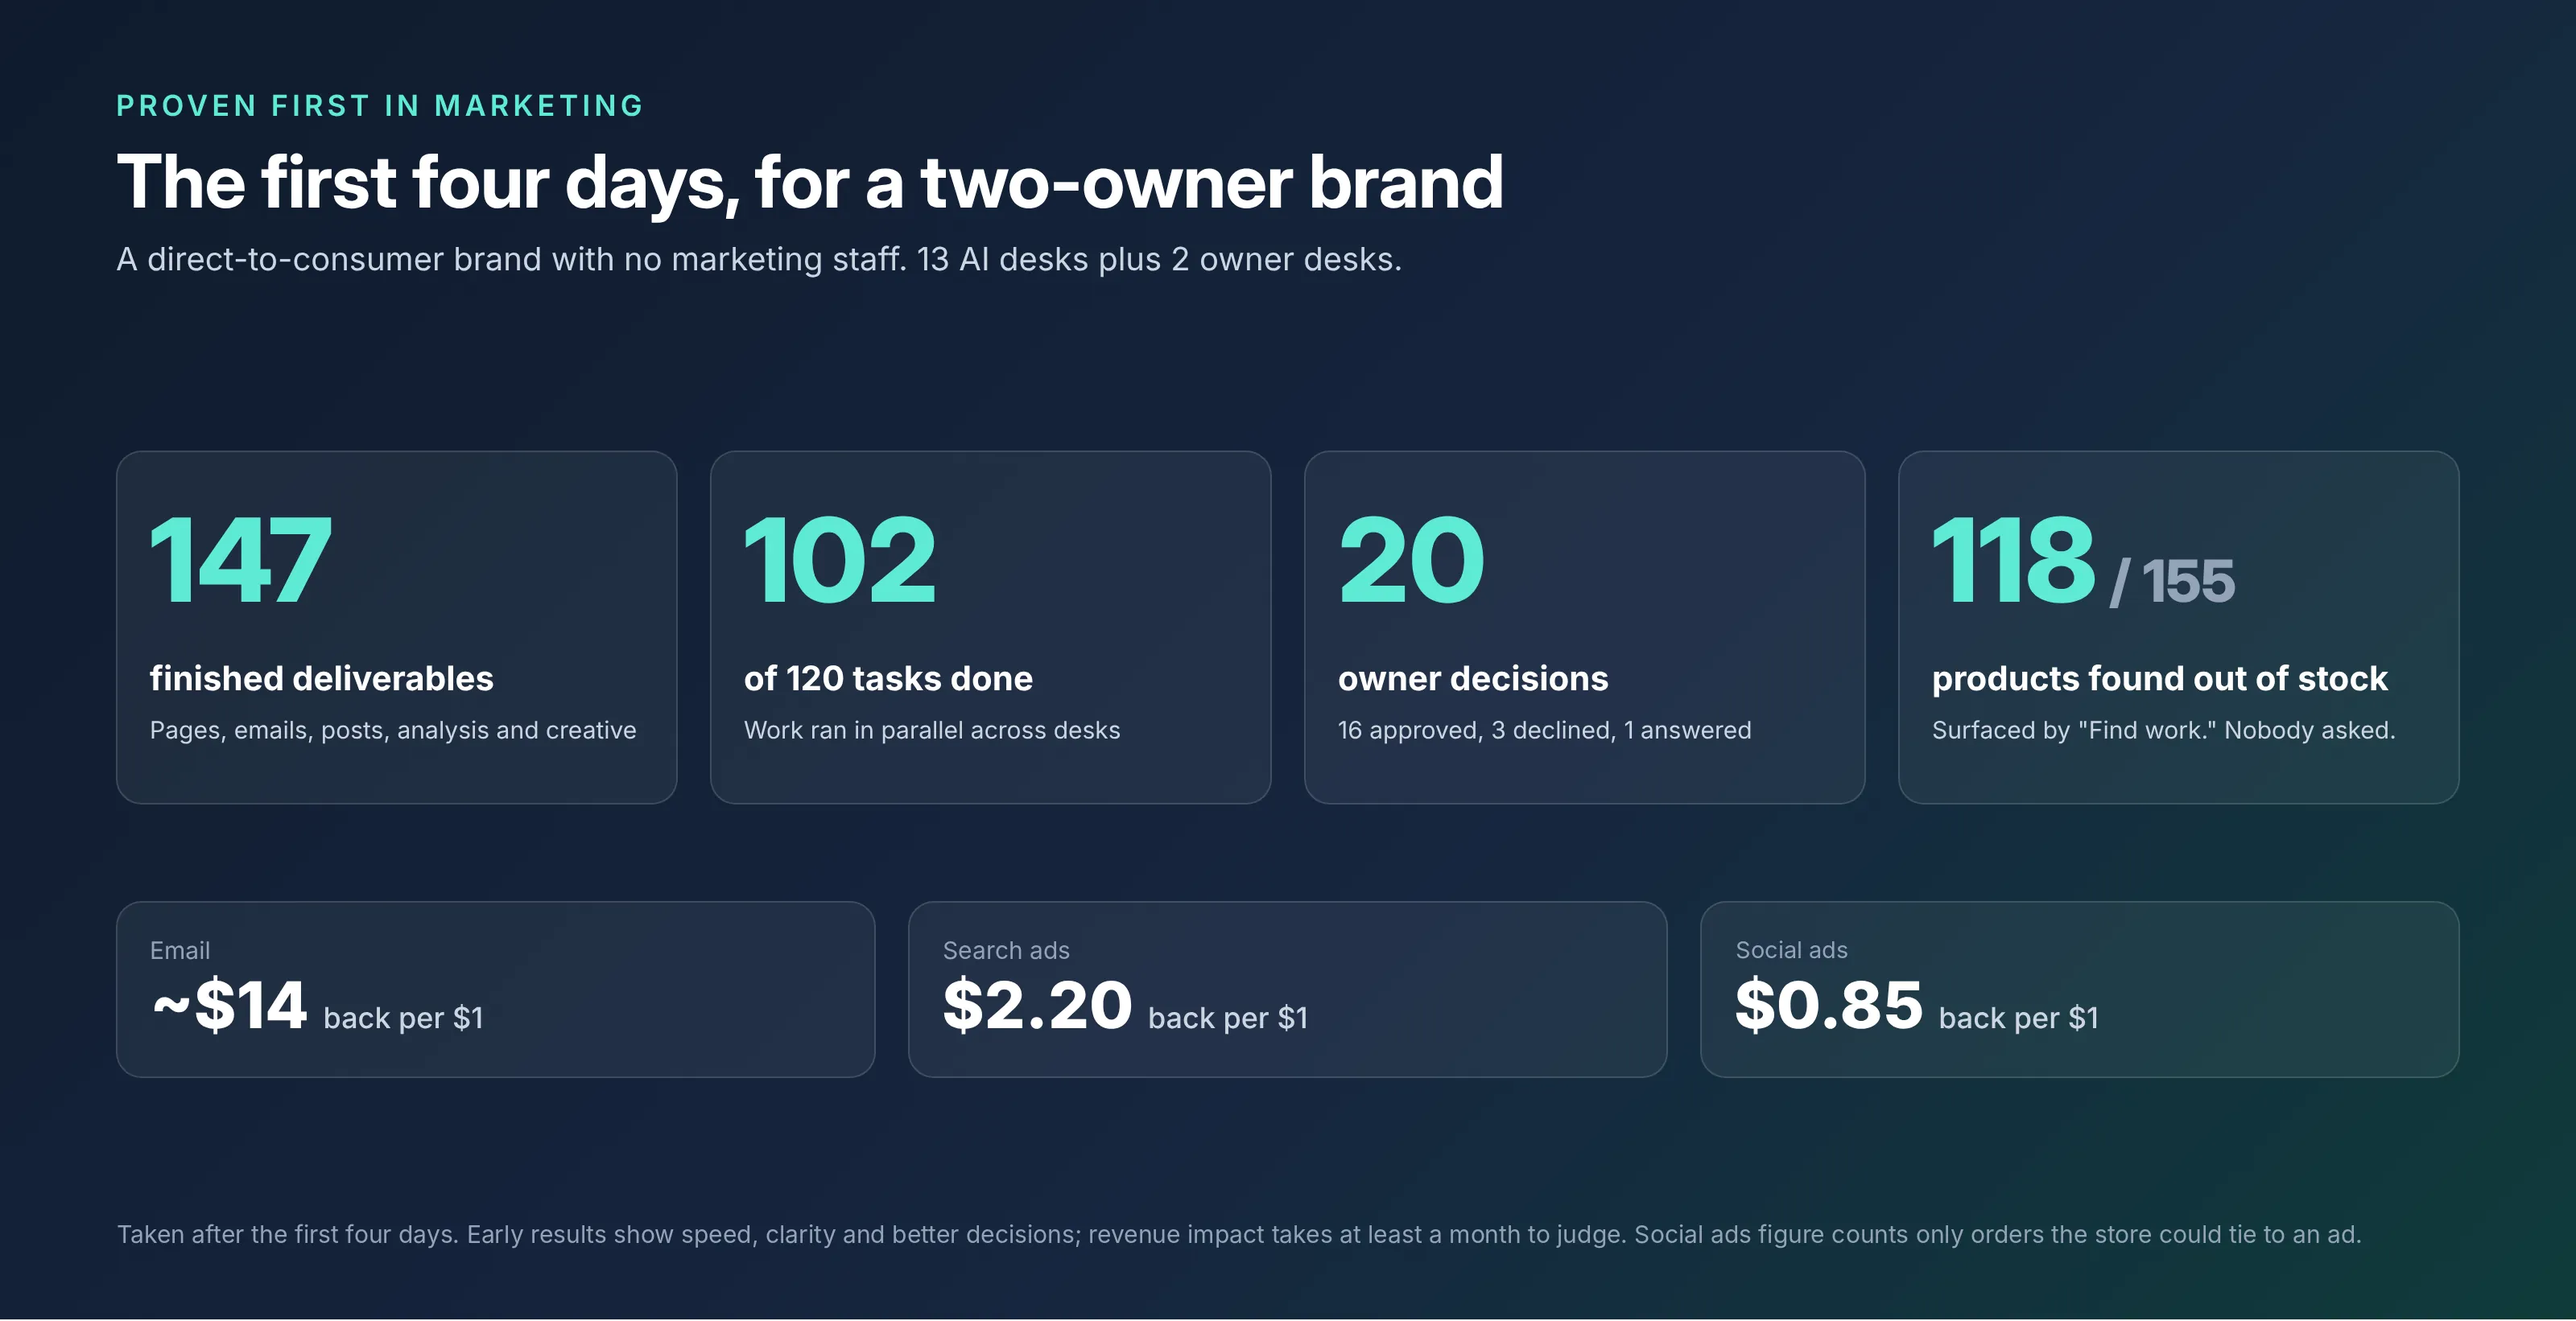
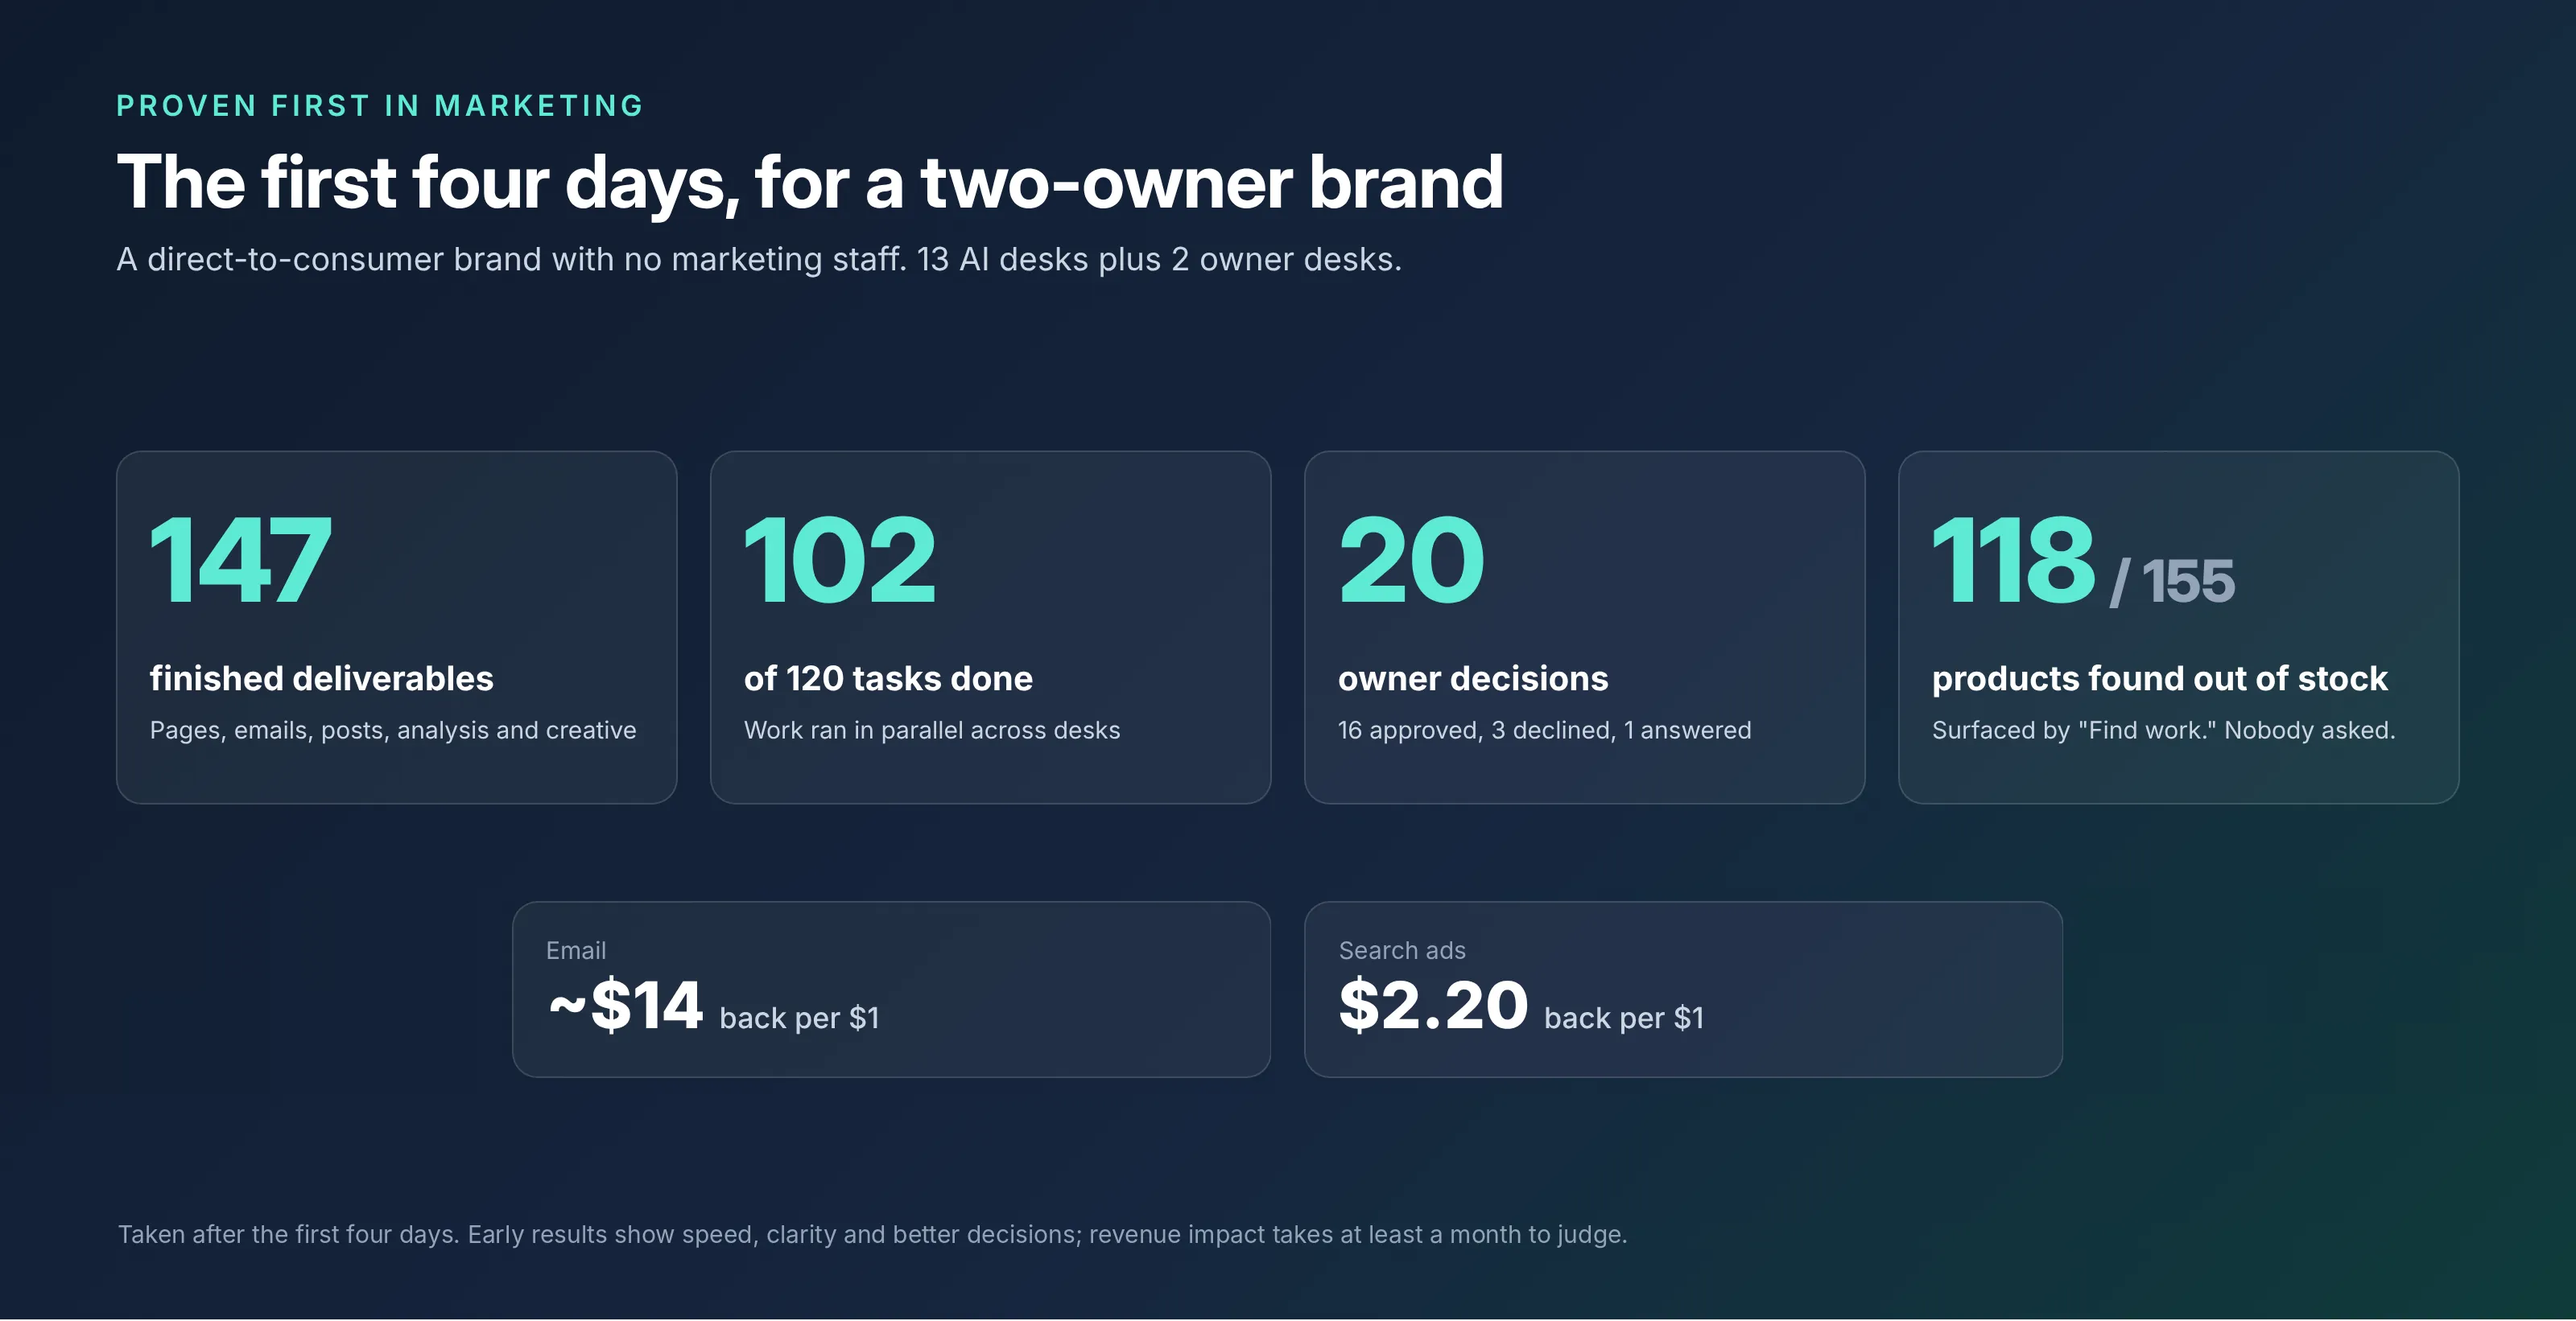
Show only positive returns in the AI Workforce case study
Removes the social ads return (and its caveat) from the AI Workforce
page, the AI employees blog post, and the results image, per Tyler.

Claude-Session: https://claude.ai/code/session_01SMmsKiJv2QkX4SPLzNsWuH

diff --git a/blog/ai-employees.html b/blog/ai-employees.html
@@ -290,7 +290,7 @@
         <p>We built a marketing office of 13 AI desks plus two owner desks, covering email, social, ads, website and SEO, creative, copywriting, one lead for each product line, retention, sales tracking, and a general manager. We connected 16 of the business's systems, and the scorecards came from the store's own order data.</p>
 
         <figure class="post-shot">
-          <img src="/images/ai-workforce/09-proof-1600.webp" alt="Results from the first four days of an AI marketing team for a two-owner brand: 147 finished deliverables, 102 of 120 tasks done, 20 owner decisions, 118 of 155 products found out of stock, and about $14 back per $1 on email, $2.20 on search ads, and $0.85 on social ads" width="1600" height="821" loading="lazy" decoding="async">
+          <img src="/images/ai-workforce/09-proof-1600.webp" alt="Results from the first four days of an AI marketing team for a two-owner brand: 147 finished deliverables, 102 of 120 tasks done, 20 owner decisions, 118 of 155 products found out of stock, and about $14 back per $1 on email and $2.20 on search ads" width="1600" height="821" loading="lazy" decoding="async">
           <figcaption>Real results from the first four days. Revenue impact needs at least a month to judge.</figcaption>
         </figure>
 
@@ -309,7 +309,7 @@
         <p>Those deliverables included a new homepage design, an About page, a reviews page, three gift blog posts, a weekly email, a holiday gift email, a win-back email, a welcome series, and daily partner posts on social media.</p>
 
         <h3>What the scorecards changed</h3>
-        <p>Every channel now shows its cost next to the sales it can be credited with. Year to date, email brought back about $14 for every $1 spent. Search ads brought back $2.20, and the desk found most of that spend was paying for clicks on the brand's own name, so the budget was cut and moved to the ads that sold the gift product. Social ads brought back $0.85, and the desk found no ad set was set up to optimize for purchases, so it fixed the tracking and set up a side-by-side test.</p>
+        <p>Every channel now shows its cost next to the sales it can be credited with. Year to date, email brought back about $14 for every $1 spent. Search ads brought back $2.20, and the desk found most of that spend was paying for clicks on the brand's own name, so the budget was cut and moved to the ads that sold the gift product.</p>
 
         <h3>What the desks found without being asked</h3>
         <ul>
@@ -320,7 +320,7 @@
           <li>The pile of orders with an unknown source was split into seven named causes, each with a fix.</li>
         </ul>
         <div class="callout">
-          <p><b>The honest caveat.</b> These numbers come from the workforce's first four days. We claim speed, clarity, and better decisions. Revenue impact needs at least a month to judge. Channel credit for the part of the year before the store's order tracking started is an estimate built from analytics, and the social ads return counts only orders the store could tie to an ad.</p>
+          <p><b>The honest caveat.</b> These numbers come from the workforce's first four days. We claim speed, clarity, and better decisions. Revenue impact needs at least a month to judge. Channel credit for the part of the year before the store's order tracking started is an estimate built from analytics.</p>
         </div>
 
         <h2 id="control">Will an AI employee do things you didn't approve?</h2>

diff --git a/ai-workforce.html b/ai-workforce.html
@@ -334,7 +334,7 @@
         <p>We built a marketing office of 13 AI desks plus two owner desks, covering email, social, ads, website and SEO, creative, copywriting, a lead for each product line, retention, attribution, and a general manager. We connected 16 of the business's systems, and the co-owner sends ideas and approves work from a private team chat channel.</p>
 
         <figure class="aiw-shot">
-          <img src="/images/ai-workforce/09-proof-1600.webp" srcset="/images/ai-workforce/09-proof-1600.webp 1600w, /images/ai-workforce/09-proof-3200.webp 3200w" sizes="(max-width: 1120px) 100vw, 1080px" width="1600" height="821" alt="First four days for a DTC beverage brand: 147 finished deliverables, 102 of 120 tasks done, 20 owner decisions, 118 of 155 products found out of stock, and return per $1 of about $14 for email, $2.20 for search ads, and $0.85 for social ads" loading="lazy" decoding="async">
+          <img src="/images/ai-workforce/09-proof-1600.webp" srcset="/images/ai-workforce/09-proof-1600.webp 1600w, /images/ai-workforce/09-proof-3200.webp 3200w" sizes="(max-width: 1120px) 100vw, 1080px" width="1600" height="821" alt="First four days for a DTC beverage brand: 147 finished deliverables, 102 of 120 tasks done, 20 owner decisions, 118 of 155 products found out of stock, and return per $1 of about $14 for email and $2.20 for search ads" loading="lazy" decoding="async">
           <figcaption>Real results from the first four days. Revenue impact needs at least a month to judge.</figcaption>
         </figure>
 
@@ -355,7 +355,6 @@
                 <tbody>
                   <tr><td>Email</td><td>about $14</td><td>Confirmed as the top channel. The desk also caught falling open rates, so new emails are checked against what's already scheduled.</td></tr>
                   <tr><td>Search ads</td><td>$2.20</td><td>Search was mostly paying for clicks on the brand's own name, so that budget was cut. Shopping ads sold the gift product at a strong return, so spend was focused there.</td></tr>
-                  <tr><td>Social ads</td><td>$0.85</td><td>No ad set was optimizing for purchases. The desk set up purchase tracking and a side-by-side test.</td></tr>
                 </tbody>
               </table>
             </div>
@@ -374,7 +373,7 @@
         <p>In the same four days, the desks produced a new homepage design, an About page, a reviews page, three gift blog posts, a welcome email series, a win-back email, a holiday gift email, and a daily partner post across three social networks, all live or waiting for approval. The team changed too: three new desks were hired and one was retired in the first week.</p>
 
         <div class="callout">
-          <p><b>The honest caveats.</b> The workforce was four days old when these numbers were taken. We claim speed, clarity, and better decisions. Revenue impact needs at least a month to judge. Year-to-date channel credit from before the store's order tracking started is an estimate built from analytics, and the social ads return counts only orders the store could tie to an ad.</p>
+          <p><b>The honest caveats.</b> The workforce was four days old when these numbers were taken. We claim speed, clarity, and better decisions. Revenue impact needs at least a month to judge. Year-to-date channel credit from before the store's order tracking started is an estimate built from analytics.</p>
         </div>
       </div>
     </section>
